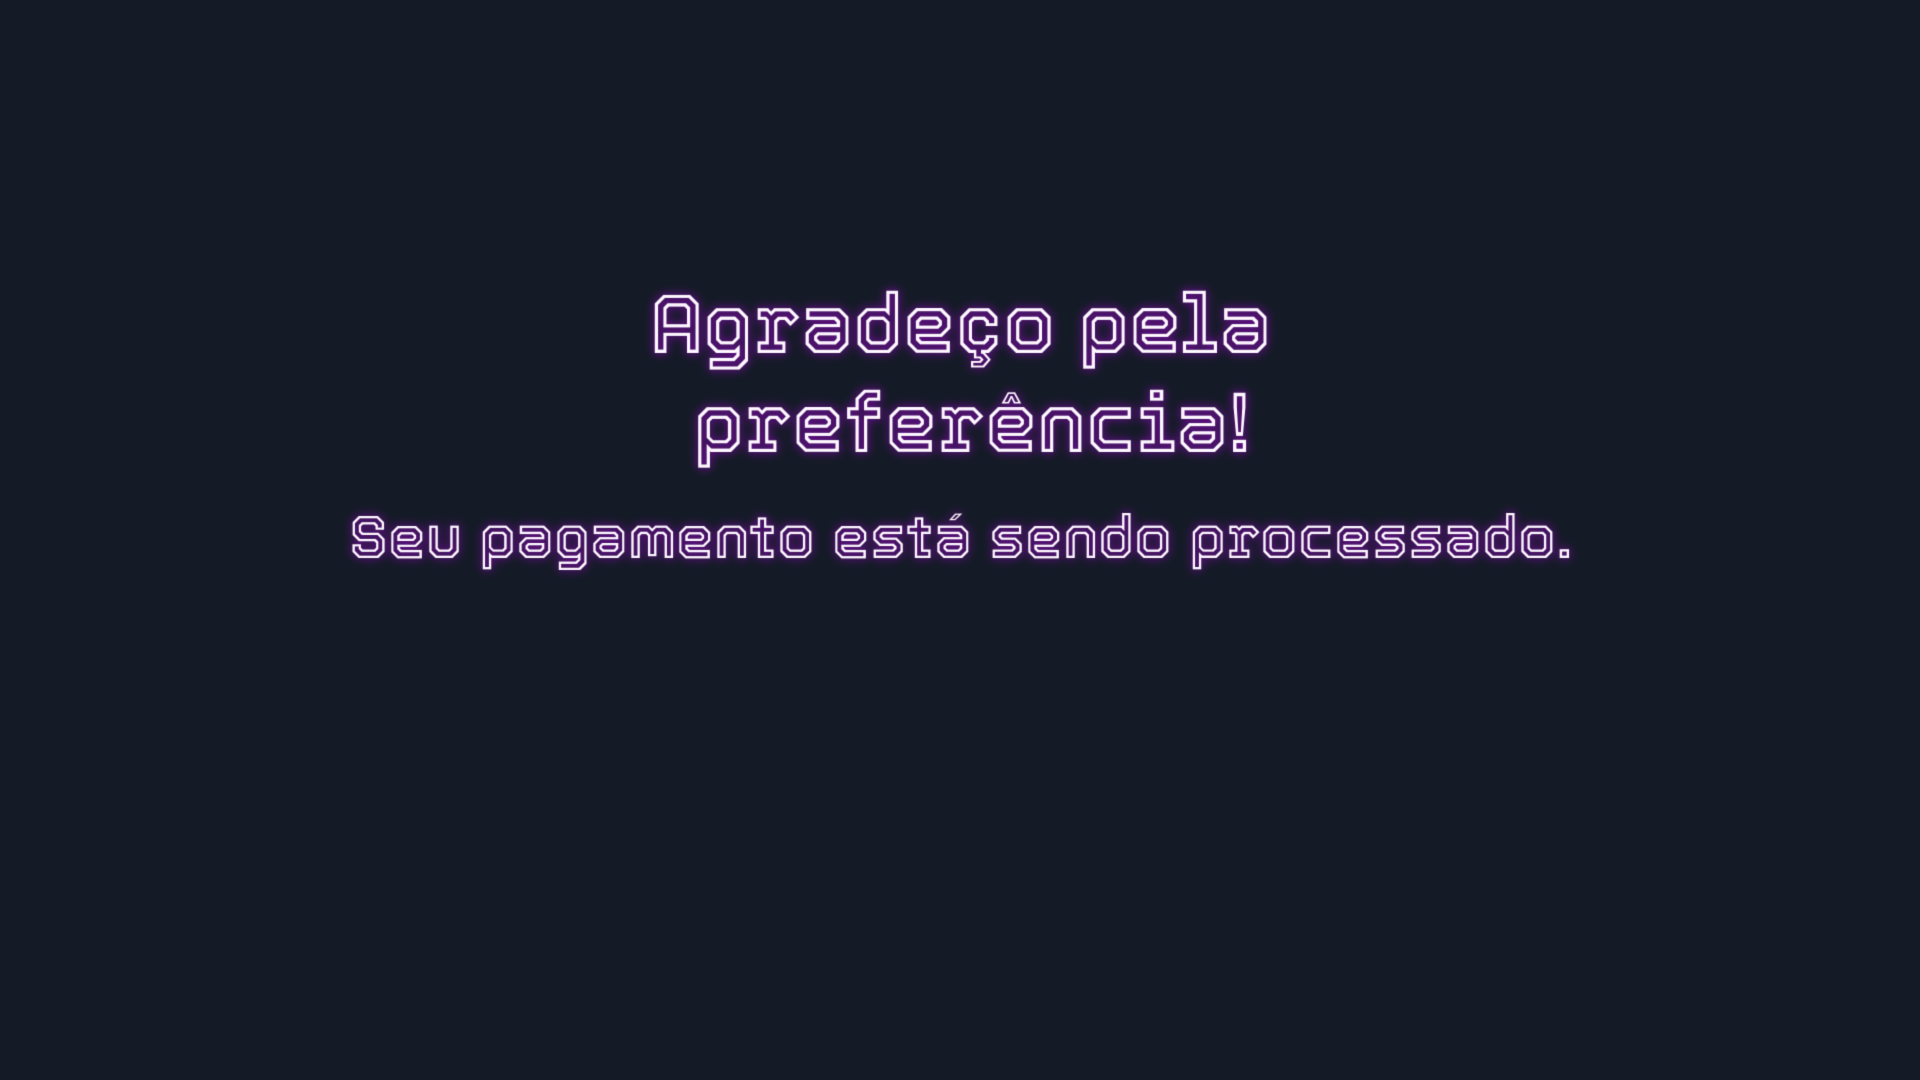
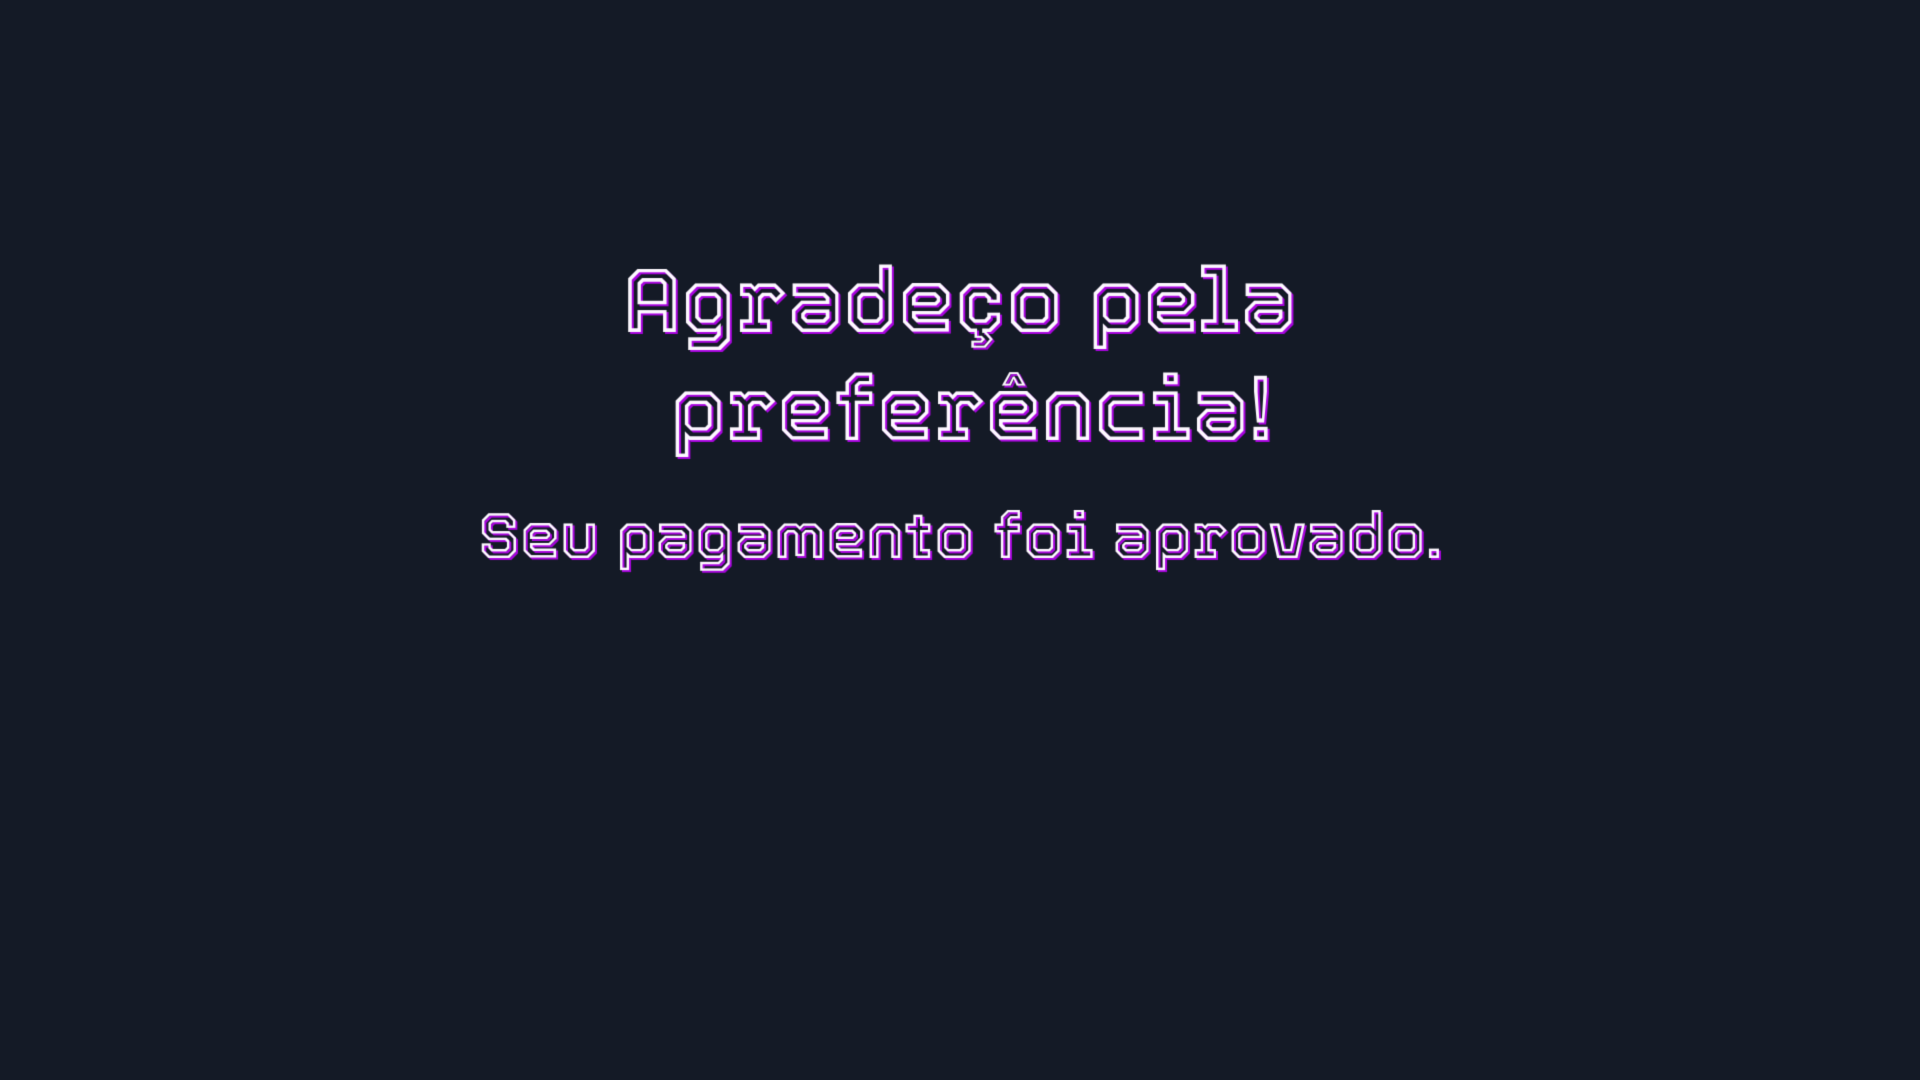
update

Changed region(s): [[0.3125, 0.2444, 0.6875, 0.4278], [0.1562, 0.4583, 0.8125, 0.55]]

diff --git a/analysis/index.html b/analysis/index.html
@@ -1,0 +1,48 @@
+<!DOCTYPE html>
+<html lang="pt-BR">
+  <head>
+    <script>(function(w,d,s,l,i){w[l]=w[l]||[];w[l].push({'gtm.start':new Date().getTime(),event:'gtm.js'});var f=d.getElementsByTagName(s)[0],j=d.createElement(s),dl=l!='dataLayer'?'&l='+l:'';j.async=true;j.src='https://www.googletagmanager.com/gtm.js?id='+i+dl;f.parentNode.insertBefore(j,f);})(window,document,'script','dataLayer','GTM-MJNQDMX');</script>
+    <meta charset="utf-8">
+    <meta content="width=device-width, initial-scale=1.0" name="viewport">
+    <title>Curso Do Zero à Hacker - Obrigado pela preferência</title>
+    <link href="../assets/img/favicon.png" rel="icon">
+    <link href="../assets/img/apple-touch-icon.png" rel="apple-touch-icon">
+    <link href="../assets/vendor/bootstrap/css/bootstrap.min.css" rel="stylesheet">
+    <link href="../assets/vendor/bootstrap-icons/bootstrap-icons.css" rel="stylesheet">
+    <link href="../assets/vendor/aos/aos.css" rel="stylesheet">
+    <link href="../assets/vendor/glightbox/css/glightbox.min.css" rel="stylesheet">
+    <link href="../assets/vendor/swiper/swiper-bundle.min.css" rel="stylesheet">
+    <link href="../assets/css/variables-purple.css" rel="stylesheet">
+    <link href="../assets/css/main.css" rel="stylesheet">
+    <script>!function(f,b,e,v,n,t,s){if(f.fbq)return;n=f.fbq=function(){n.callMethod?n.callMethod.apply(n,rguments):n.queue.push(arguments)};if(!f._fbq)f._fbq=n;n.push=n;n.loaded=!0;n.version='2.0';n.queue=[];t=b.createElement(e);t.async=!0;t.src=v;s=b.getElementsByTagName(e)[0];s.parentNode.insertBefore(t,s)}(window, document,'script','https://connect.facebook.net/en_US/fbevents.js');fbq('init','325920158598713');fbq('track','PageView');</script>
+  </head>
+  <body>
+    <noscript><iframe src="https://www.googletagmanager.com/ns.html?id=GTM-MJNQDMX" height="0" width="0" style="display:none;visibility:hidden"></iframe></noscript>
+    <section id="hero-static" class="hero-static-analysis d-flex align-items-center">
+      <div class="container d-flex flex-column justify-content-center align-items-center text-center position-relative"></div>
+    </section>
+    <section id="hero-static" class="hero-static-space d-flex align-items-center"></section>
+    <main id="main">
+      <section id="featured-services" class="featured-services">
+        <div class="container">
+          <div class="row text-center justify-content-center align-items-center text-center">
+            <div class="col-xl-6 col-md-6 d-flex" onclick="location.href='http\://curso.lucasbgates.com/'" style="cursor: pointer;" data-aos="zoom-out" data-aos-delay="600">
+              <div class="service-item position-relative" >
+                <h4><a class="stretched-link">Acessar o Curso</a></h4>
+                <p>Assim que o pagamento for <b>liberado</b> você poderá acessar o curso clicando aqui.</p>
+              </div>
+            </div>
+          </div>
+        </div>
+      </section>
+    </main>
+    <div id="preloader"></div>
+    <script src="../assets/vendor/bootstrap/js/bootstrap.bundle.min.js"></script>
+    <script src="../assets/vendor/aos/aos.js"></script>
+    <script src="../assets/vendor/glightbox/js/glightbox.min.js"></script>
+    <script src="../assets/vendor/isotope-layout/isotope.pkgd.min.js"></script>
+    <script src="../assets/vendor/swiper/swiper-bundle.min.js"></script>
+    <script src="../assets/js/main.js"></script>
+    <noscript><img height="1" width="1" style="display:none" src="https://www.facebook.com/tr?id=325920158598713&ev=PageView&noscript=1"/></noscript>
+  </body>
+</html>

diff --git a/waiting/index.html b/waiting/index.html
@@ -1,0 +1,48 @@
+<!DOCTYPE html>
+<html lang="pt-BR">
+  <head>
+    <script>(function(w,d,s,l,i){w[l]=w[l]||[];w[l].push({'gtm.start':new Date().getTime(),event:'gtm.js'});var f=d.getElementsByTagName(s)[0],j=d.createElement(s),dl=l!='dataLayer'?'&l='+l:'';j.async=true;j.src='https://www.googletagmanager.com/gtm.js?id='+i+dl;f.parentNode.insertBefore(j,f);})(window,document,'script','dataLayer','GTM-MJNQDMX');</script>
+    <meta charset="utf-8">
+    <meta content="width=device-width, initial-scale=1.0" name="viewport">
+    <title>Curso Do Zero à Hacker - Obrigado pela preferência</title>
+    <link href="../assets/img/favicon.png" rel="icon">
+    <link href="../assets/img/apple-touch-icon.png" rel="apple-touch-icon">
+    <link href="../assets/vendor/bootstrap/css/bootstrap.min.css" rel="stylesheet">
+    <link href="../assets/vendor/bootstrap-icons/bootstrap-icons.css" rel="stylesheet">
+    <link href="../assets/vendor/aos/aos.css" rel="stylesheet">
+    <link href="../assets/vendor/glightbox/css/glightbox.min.css" rel="stylesheet">
+    <link href="../assets/vendor/swiper/swiper-bundle.min.css" rel="stylesheet">
+    <link href="../assets/css/variables-purple.css" rel="stylesheet">
+    <link href="../assets/css/main.css" rel="stylesheet">
+    <script>!function(f,b,e,v,n,t,s){if(f.fbq)return;n=f.fbq=function(){n.callMethod?n.callMethod.apply(n,rguments):n.queue.push(arguments)};if(!f._fbq)f._fbq=n;n.push=n;n.loaded=!0;n.version='2.0';n.queue=[];t=b.createElement(e);t.async=!0;t.src=v;s=b.getElementsByTagName(e)[0];s.parentNode.insertBefore(t,s)}(window, document,'script','https://connect.facebook.net/en_US/fbevents.js');fbq('init','325920158598713');fbq('track','PageView');</script>
+  </head>
+  <body>
+    <noscript><iframe src="https://www.googletagmanager.com/ns.html?id=GTM-MJNQDMX" height="0" width="0" style="display:none;visibility:hidden"></iframe></noscript>
+    <section id="hero-static" class="hero-static-waiting d-flex align-items-center">
+      <div class="container d-flex flex-column justify-content-center align-items-center text-center position-relative"></div>
+    </section>
+    <section id="hero-static" class="hero-static-space d-flex align-items-center"></section>
+    <main id="main">
+      <section id="featured-services" class="featured-services">
+        <div class="container">
+          <div class="row text-center justify-content-center align-items-center text-center">
+            <div class="col-xl-6 col-md-6 d-flex" onclick="location.href='http\://curso.lucasbgates.com/'" style="cursor: pointer;" data-aos="zoom-out" data-aos-delay="600">
+              <div class="service-item position-relative" >
+                <h4><a class="stretched-link">Acessar o Curso</a></h4>
+                <p>Assim que o pagamento for <b>liberado</b> você poderá acessar o curso clicando aqui.</p>
+              </div>
+            </div>
+          </div>
+        </div>
+      </section>
+    </main>
+    <div id="preloader"></div>
+    <script src="../assets/vendor/bootstrap/js/bootstrap.bundle.min.js"></script>
+    <script src="../assets/vendor/aos/aos.js"></script>
+    <script src="../assets/vendor/glightbox/js/glightbox.min.js"></script>
+    <script src="../assets/vendor/isotope-layout/isotope.pkgd.min.js"></script>
+    <script src="../assets/vendor/swiper/swiper-bundle.min.js"></script>
+    <script src="../assets/js/main.js"></script>
+    <noscript><img height="1" width="1" style="display:none" src="https://www.facebook.com/tr?id=325920158598713&ev=PageView&noscript=1"/></noscript>
+  </body>
+</html>

diff --git a/assets/css/main.css b/assets/css/main.css
@@ -1037,9 +1037,35 @@ section {
   justify-content: center;
 }
 
+.hero-static-analysis {
+  width: 100%;
+  min-height: 100vh;
+  background: url("../img/hero-bg-analysis.png") center center;
+  background-size: cover;
+  background-repeat: no-repeat;
+  position: absolute;
+  padding: 120px 0 60px;
+  display: flex;
+  flex-direction: column;
+  justify-content: center;
+}
+
+.hero-static-waiting {
+  width: 100%;
+  min-height: 100vh;
+  background: url("../img/hero-bg-processing.png") center center;
+  background-size: cover;
+  background-repeat: no-repeat;
+  position: absolute;
+  padding: 120px 0 60px;
+  display: flex;
+  flex-direction: column;
+  justify-content: center;
+}
+
 .hero-static-space {
   width: 100%;
-  min-height: 55vh;
+  min-height: 60vh;
   position: inherit;
   padding: 120px 0 60px;
   display: flex;
